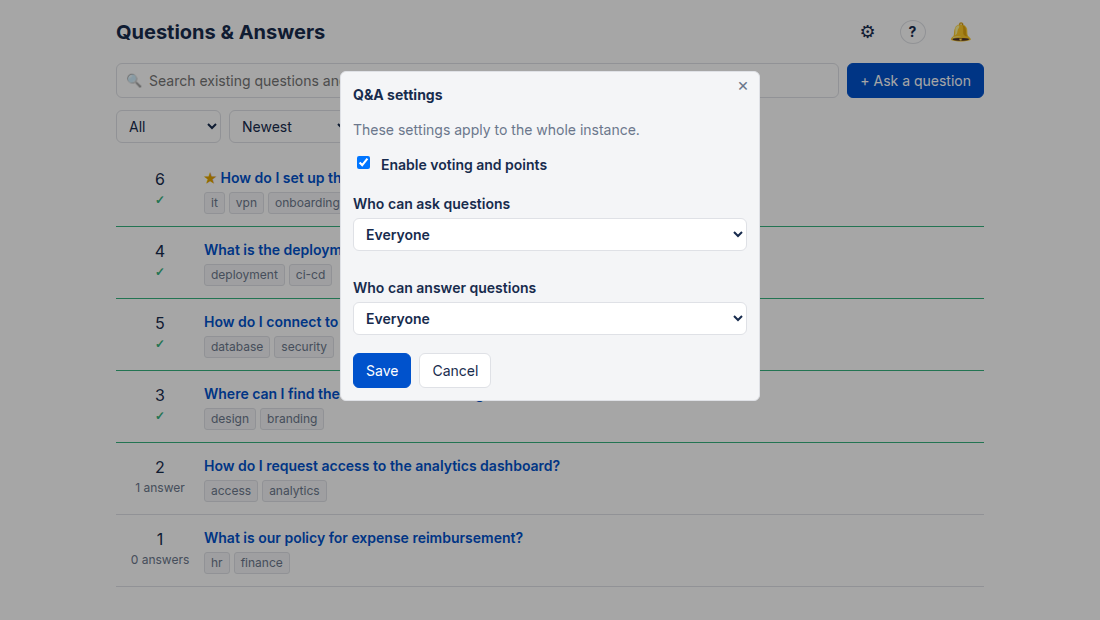
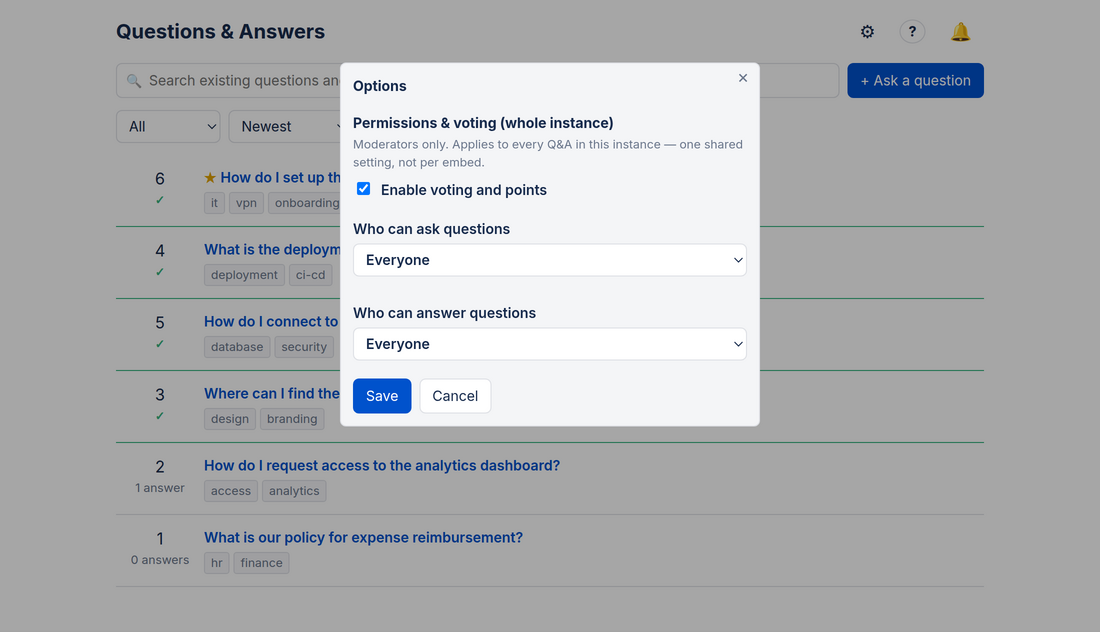
fixed product screenshot and updated contact mail

diff --git a/impressum.html b/impressum.html
@@ -87,7 +87,7 @@
       <h2>Kontakt</h2>
       <p>
         E-Mail:
-        <a href="mailto:martinnxb@gmail.com">martinnxb@gmail.com</a><br />
+        <a href="mailto:support@nxblabs.com">support@nxblabs.com</a><br />
       </p>
 
       <footer>
